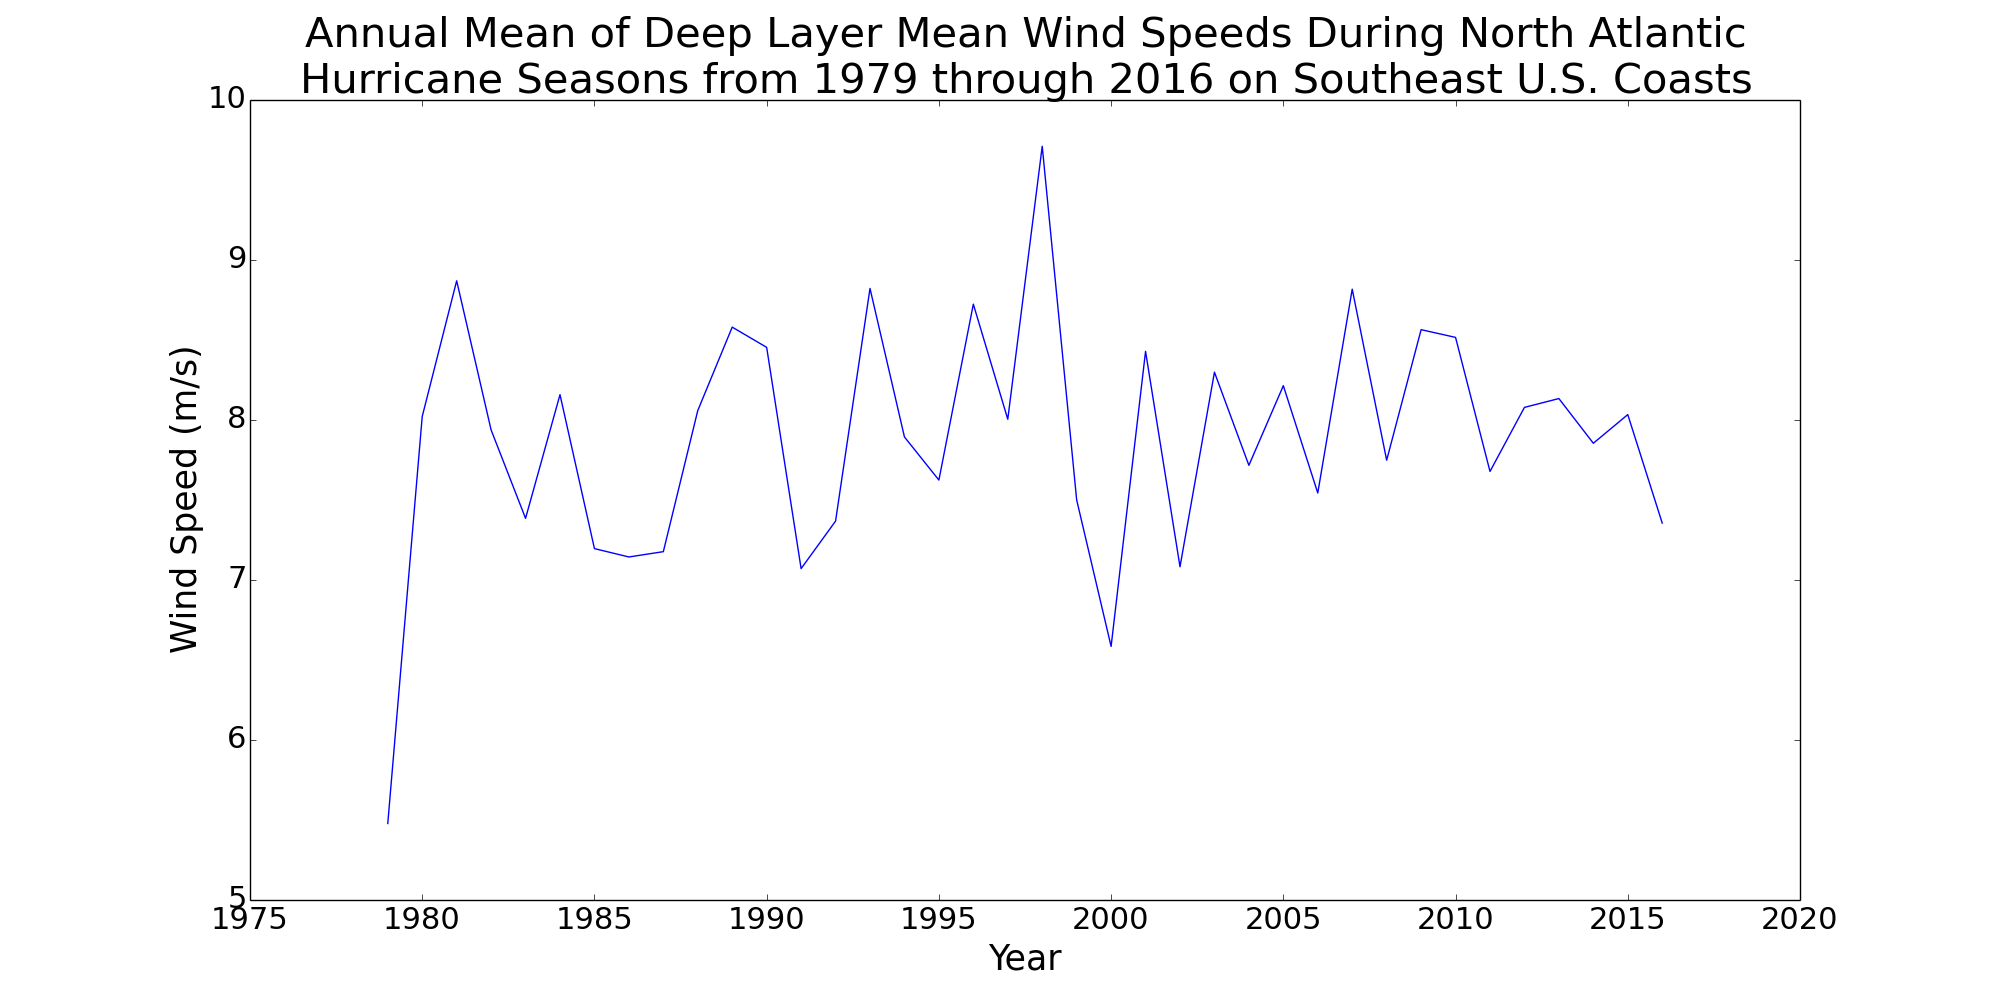
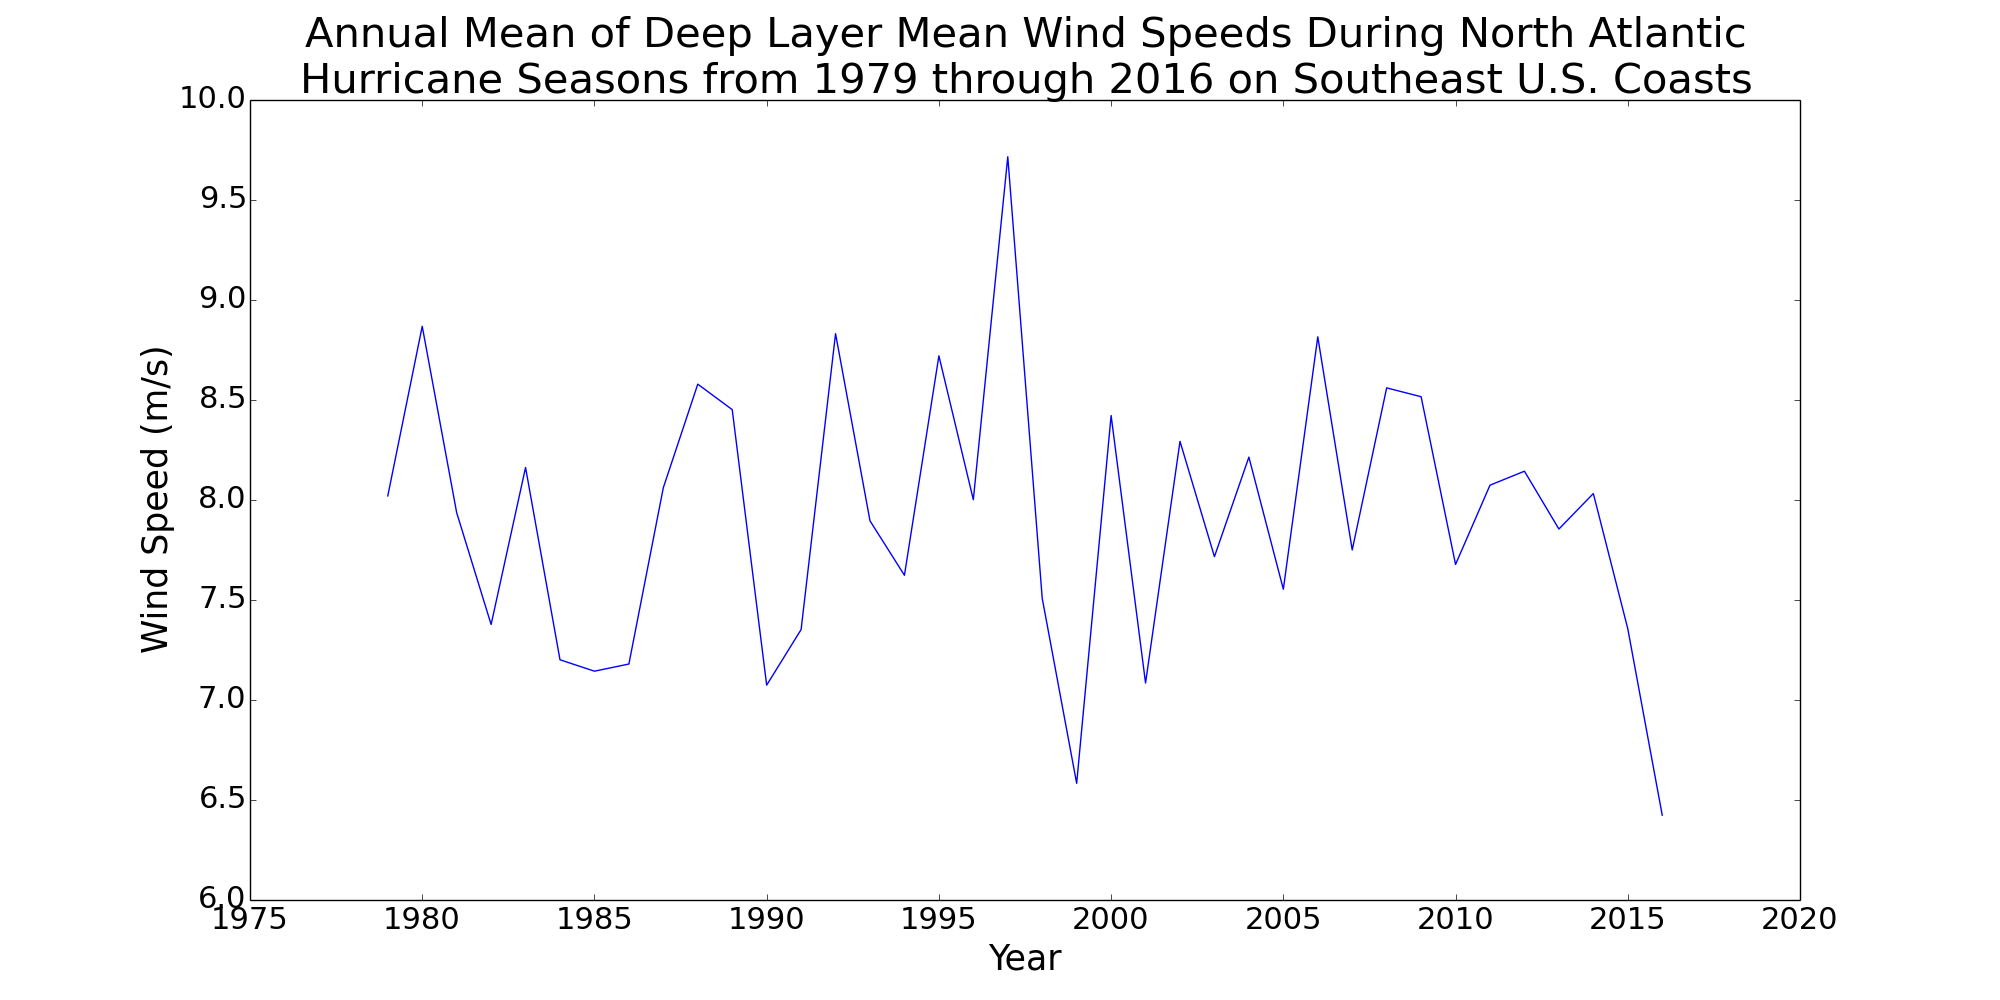
Fixed annual mean time series, also added time series for 6 months of hurricane season

diff --git a/DLM_stats.py b/DLM_stats.py
@@ -765,20 +765,30 @@ def getBestTrackSpeeds(filename, locs):
 
 
 # Description: Computes the average DLM wind speed for each year represented in a
-#              DLM wind speed array
+#              DLM wind speed array and plots a time series of how the annual mean
+#              changes from 1979 to 2016. Also performs this process for each month
+#              in the north Atlantic hurricane season
 # Input: -wind_speeds: An array that stores an array of floats. Each array within
 #                      this array represents a different location, while each float
 #                      is a wind speed in m/s
-# Output: -annual_means: An array of floats where each number is the annual mean
-#                        deep layer mean wind speed between all considered locations
-#                        for a given year.
-def getAnnualMeans(wind_speeds):
+#        -location_names: An array storing names of locations in the region of interest.
+#                         Only used for plot titles and file names for plot images.
+# Output: none
+def getAnnualMeans(wind_speeds, location_names):
     annual_means = []
+    annual_means_June = []
+    annual_means_July = []
+    annual_means_Aug = []
+    annual_means_Sep = []
+    annual_means_Oct = []
+    annual_means_Nov = []
 
     # Loop through all times
     i = 0
     total_sum = 0
     total_count = 0
+    month_sum = 0
+    month_count = 0
     while i < len(wind_speeds[0]):
         # Loop through all locations
         j = 0
@@ -787,24 +797,153 @@ def getAnnualMeans(wind_speeds):
             if (~np.isnan(wind_speeds[j][i])):
                 total_sum = total_sum + wind_speeds[j][i]
                 total_count = total_count + 1
+                month_sum = month_sum + wind_speeds[j][i]
+                month_count = month_count + 1
 
             j = j + 1
 
         # Average wind speeds for the current year and add them to the annual mean array
-        if (i % 732 == 0):
+        # Also calculate annual means for individual months
+        if (i % 732 == 731):
+            # Whole season
             annual_means.append(total_sum/total_count)
             total_sum = 0
             total_count = 0
+            # November
+            annual_means_Nov.append(month_sum/month_count)
+            month_sum = 0
+            month_count = 0
+        # June
+        elif (i % 732 == 127):
+            annual_means_June.append(month_sum/month_count)
+            month_sum = 0
+            month_count = 0
+        # July
+        elif (i % 732 == 251):
+            annual_means_July.append(month_sum/month_count)
+            month_sum = 0
+            month_count = 0
+        # August
+        elif (i % 732 == 375):
+            annual_means_Aug.append(month_sum/month_count)
+            month_sum = 0
+            month_count = 0
+        # September
+        elif (i % 732 == 495):
+            annual_means_Sep.append(month_sum/month_count)
+            month_sum = 0
+            month_count = 0
+        # October
+        elif (i % 732 == 619):
+            annual_means_Oct.append(month_sum/month_count)
+            month_sum = 0
+            month_count = 0
 
         i = i + 1
 
     print(annual_means)
+    print(annual_means_June)
+    print(annual_means_July)
+    print(annual_means_Aug)
+    print(annual_means_Sep)
+    print(annual_means_Oct)
+    print(annual_means_Nov)
 
-    # TODO: more testing (make sure NANs aren't being added, counts are right, etc.)
     # TODO: regression/trend lines
-    # TODO: Split by month?
 
-    return annual_means
+    # Plot annual mean DLM wind speeds from 1979 to 2016
+    years = [1979, 1980, 1981, 1982, 1983, 1984, 1985, 1986, 1987, 1988, 1989, 1990, 1991, 1992, 1993, 1994, 1995, 1996, 1997,
+             1998, 1999, 2000, 2001, 2002, 2003, 2004, 2005, 2006, 2007, 2008, 2009, 2010, 2011, 2012, 2013, 2014, 2015, 2016]
+    plt.figure(1, figsize = (20,10))
+    plt.rc('axes', titlesize = 30)
+    plt.rc('axes', labelsize = 25)
+    plt.rc('xtick', labelsize = 22)
+    plt.rc('ytick', labelsize = 22)
+    plt.plot(years, annual_means)
+    plt.ylabel('Wind Speed (m/s)')
+    plt.xlabel('Year')
+    plt.title('Annual Mean of Deep Layer Mean Wind Speeds During North Atlantic\nHurricane Seasons from 1979 through 2016 on ' +
+              location_names[region][1])
+    plt.savefig('Figures/Annual_Mean_Speeds/WS_79_16/Annual_Mean_Time_Series_79_16_' + location_names[region][0] + '.png')
+    plt.show()
+
+    plt.figure(1, figsize = (20,10))
+    plt.rc('axes', titlesize = 30)
+    plt.rc('axes', labelsize = 25)
+    plt.rc('xtick', labelsize = 22)
+    plt.rc('ytick', labelsize = 22)
+    plt.plot(years, annual_means_June)
+    plt.ylabel('Wind Speed (m/s)')
+    plt.xlabel('Year')
+    plt.title('Annual Mean of Deep Layer Mean Wind Speeds During the Month of\nJune from 1979 through 2016 on ' +
+              location_names[region][1])
+    plt.savefig('Figures/Annual_Mean_Speeds/WS_79_16/Annual_Mean_Time_Series_79_16_' + location_names[region][0] + '_June.png')
+    plt.show()
+
+    plt.figure(1, figsize = (20,10))
+    plt.rc('axes', titlesize = 30)
+    plt.rc('axes', labelsize = 25)
+    plt.rc('xtick', labelsize = 22)
+    plt.rc('ytick', labelsize = 22)
+    plt.plot(years, annual_means_July)
+    plt.ylabel('Wind Speed (m/s)')
+    plt.xlabel('Year')
+    plt.title('Annual Mean of Deep Layer Mean Wind Speeds During the Month of\nJuly from 1979 through 2016 on ' +
+              location_names[region][1])
+    plt.savefig('Figures/Annual_Mean_Speeds/WS_79_16/Annual_Mean_Time_Series_79_16_' + location_names[region][0] + '_July.png')
+    plt.show()
+
+    plt.figure(1, figsize = (20,10))
+    plt.rc('axes', titlesize = 30)
+    plt.rc('axes', labelsize = 25)
+    plt.rc('xtick', labelsize = 22)
+    plt.rc('ytick', labelsize = 22)
+    plt.plot(years, annual_means_Aug)
+    plt.ylabel('Wind Speed (m/s)')
+    plt.xlabel('Year')
+    plt.title('Annual Mean of Deep Layer Mean Wind Speeds During the Month of\nAugust from 1979 through 2016 on ' +
+              location_names[region][1])
+    plt.savefig('Figures/Annual_Mean_Speeds/WS_79_16/Annual_Mean_Time_Series_79_16_' + location_names[region][0] + '_Aug.png')
+    plt.show()
+
+    plt.figure(1, figsize = (20,10))
+    plt.rc('axes', titlesize = 30)
+    plt.rc('axes', labelsize = 25)
+    plt.rc('xtick', labelsize = 22)
+    plt.rc('ytick', labelsize = 22)
+    plt.plot(years, annual_means_Sep)
+    plt.ylabel('Wind Speed (m/s)')
+    plt.xlabel('Year')
+    plt.title('Annual Mean of Deep Layer Mean Wind Speeds During the Month of\nSeptember from 1979 through 2016 on ' +
+              location_names[region][1])
+    plt.savefig('Figures/Annual_Mean_Speeds/WS_79_16/Annual_Mean_Time_Series_79_16_' + location_names[region][0] + '_Sep.png')
+    plt.show()
+
+    plt.figure(1, figsize = (20,10))
+    plt.rc('axes', titlesize = 30)
+    plt.rc('axes', labelsize = 25)
+    plt.rc('xtick', labelsize = 22)
+    plt.rc('ytick', labelsize = 22)
+    plt.plot(years, annual_means_Oct)
+    plt.ylabel('Wind Speed (m/s)')
+    plt.xlabel('Year')
+    plt.title('Annual Mean of Deep Layer Mean Wind Speeds During the Month of\nOctober from 1979 through 2016 on ' +
+              location_names[region][1])
+    plt.savefig('Figures/Annual_Mean_Speeds/WS_79_16/Annual_Mean_Time_Series_79_16_' + location_names[region][0] + '_Oct.png')
+    plt.show()
+
+    plt.figure(1, figsize = (20,10))
+    plt.rc('axes', titlesize = 30)
+    plt.rc('axes', labelsize = 25)
+    plt.rc('xtick', labelsize = 22)
+    plt.rc('ytick', labelsize = 22)
+    plt.plot(years, annual_means_Nov)
+    plt.ylabel('Wind Speed (m/s)')
+    plt.xlabel('Year')
+    plt.title('Annual Mean of Deep Layer Mean Wind Speeds During the Month of\nNovember from 1979 through 2016 on ' +
+              location_names[region][1])
+    plt.savefig('Figures/Annual_Mean_Speeds/WS_79_16/Annual_Mean_Time_Series_79_16_' + location_names[region][0] + '_Nov.png')
+    plt.show()
 
 
 ######################################################################################
@@ -1001,24 +1140,8 @@ wind_speeds_79_16 = getWindSpeedInterval(wind_speeds, 0, 27816)
 # Get updated time interval as well
 dates_and_times_79_16 = dates_and_times[0:27816]
 
-# Determine annual mean DLM wind speed from 1979 to 2016
-annual_means_79_16 = getAnnualMeans(wind_speeds_79_16)
-
-# Plot annual mean DLM wind speeds from 1979 to 2016
-years = [1979, 1980, 1981, 1982, 1983, 1984, 1985, 1986, 1987, 1988, 1989, 1990, 1991, 1992, 1993, 1994, 1995, 1996, 1997,
-         1998, 1999, 2000, 2001, 2002, 2003, 2004, 2005, 2006, 2007, 2008, 2009, 2010, 2011, 2012, 2013, 2014, 2015, 2016]
-plt.figure(1, figsize = (20,10))
-plt.rc('axes', titlesize = 30)
-plt.rc('axes', labelsize = 25)
-plt.rc('xtick', labelsize = 22)
-plt.rc('ytick', labelsize = 22)
-plt.plot(years, annual_means_79_16)
-plt.ylabel('Wind Speed (m/s)')
-plt.xlabel('Year')
-plt.title('Annual Mean of Deep Layer Mean Wind Speeds During North Atlantic\nHurricane Seasons from 1979 through 2016 on ' +
-          location_names[region][1])
-plt.savefig('Figures/Annual_Mean_Speeds/WS_79_16/Annual_Mean_Time_Series_79_16_' + location_names[region][0] + '.png')
-plt.show()
+# Determine and plot annual mean DLM wind speeds from 1979 to 2016
+getAnnualMeans(wind_speeds_79_16, location_names)
 
 # Populate the wind speed frequency array
 getFrequencies(wind_speeds_79_16, wind_speed_freq_all)
